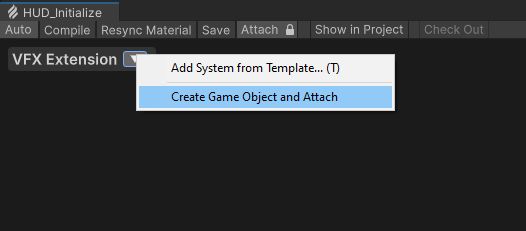
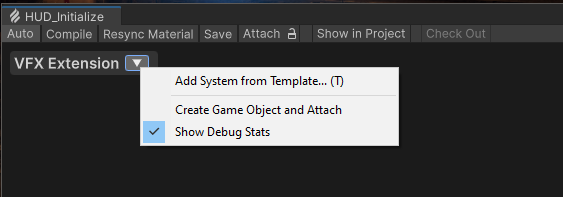
Updated Readme

diff --git a/README.md b/README.md
@@ -42,6 +42,44 @@ The VFXGraph Extension provides a menu with additional UI and functionality feat
 
 ![](https://raw.githubusercontent.com/peeweek/net.peeweek.vfxgraph-extras/master/Documentation%7E/VFXExtension.png)
 
+
+
+### Graph Debug Stats
+
+In the VFX Extension menu, you can toggle the Toggle Debug Stats menu entry to display additional information about particle systems and spawn systems. Many of these informations will require you to attach the graph window to a scene instance. 
+
+![](https://raw.githubusercontent.com/peeweek/net.peeweek.vfxgraph-extras/master/Documentation%7E/DebugStats.png)
+
+### Globals
+
+The globals feature enable users to define global shader data structures to be read from the graph, for example to use the player position in VFX Graphs without requiring to bind the values at the component level. 
+
+In order to read values, you need to create a VFX Globals definition asset, where you will reference an HLSL include (that you can generate/update as well using the inspector menu), and declare global values.
+
+![](https://raw.githubusercontent.com/peeweek/net.peeweek.vfxgraph-extras/master/Documentation%7E/Globals.png)
+
+Then, using the **Get Globals node** and the **Include Globals Block** (required for reading these values in a context), you can access the values set by the code. In order to set the values in monobehaviours, simply use the `Shader.SetGlobal...()` API. For example : 
+
+```csharp
+[ExecuteAlways]
+[RequireComponent(typeof(SphereCollider))]
+public class SetSphereGlobal : MonoBehaviour
+{
+    SphereCollider m_Collider;
+    private void OnEnable()
+    {
+        m_Collider = GetComponent<SphereCollider>();
+    }
+
+    private void Update()
+    {
+        Shader.SetGlobalVector("spherePosition", transform.position);
+        Shader.SetGlobalFloat("sphereRadius", m_Collider.radius * transform.localScale.x);
+
+    }
+}
+```
+
 ### Volume Mixer
 
 Volume Mixer provides a way to define custom properties in the project and blend them through the volume system.
@@ -77,8 +115,7 @@ VFX Template Gallery enables picking a starting point upon creating a new VFX Gr
 
 ### Custom Block
 
-Custom Block enables writing a block with custom HLSL code, providing input properties, random, and accessing particle attributes.
+Custom Block enables writing a block with custom HLSL code, providing input properties, random, and accessing particle attributes, and even custom attributes.
 
 ![](https://raw.githubusercontent.com/peeweek/net.peeweek.vfxgraph-extras/master/Documentation%7E/CustomBlock.png)
-
 
